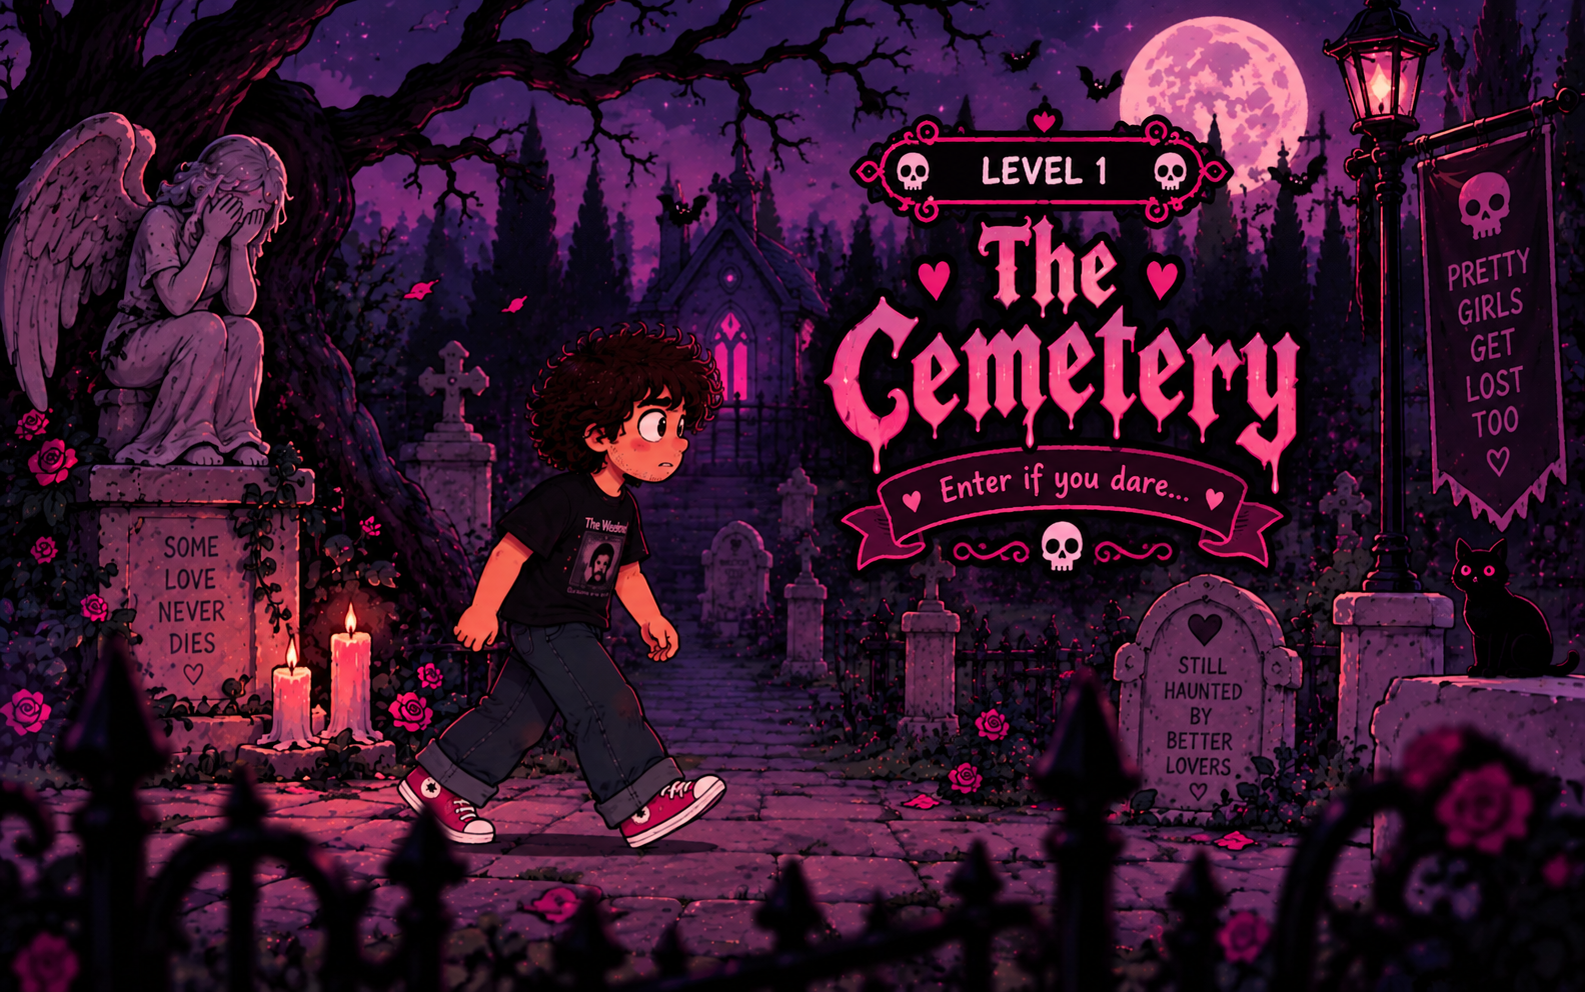
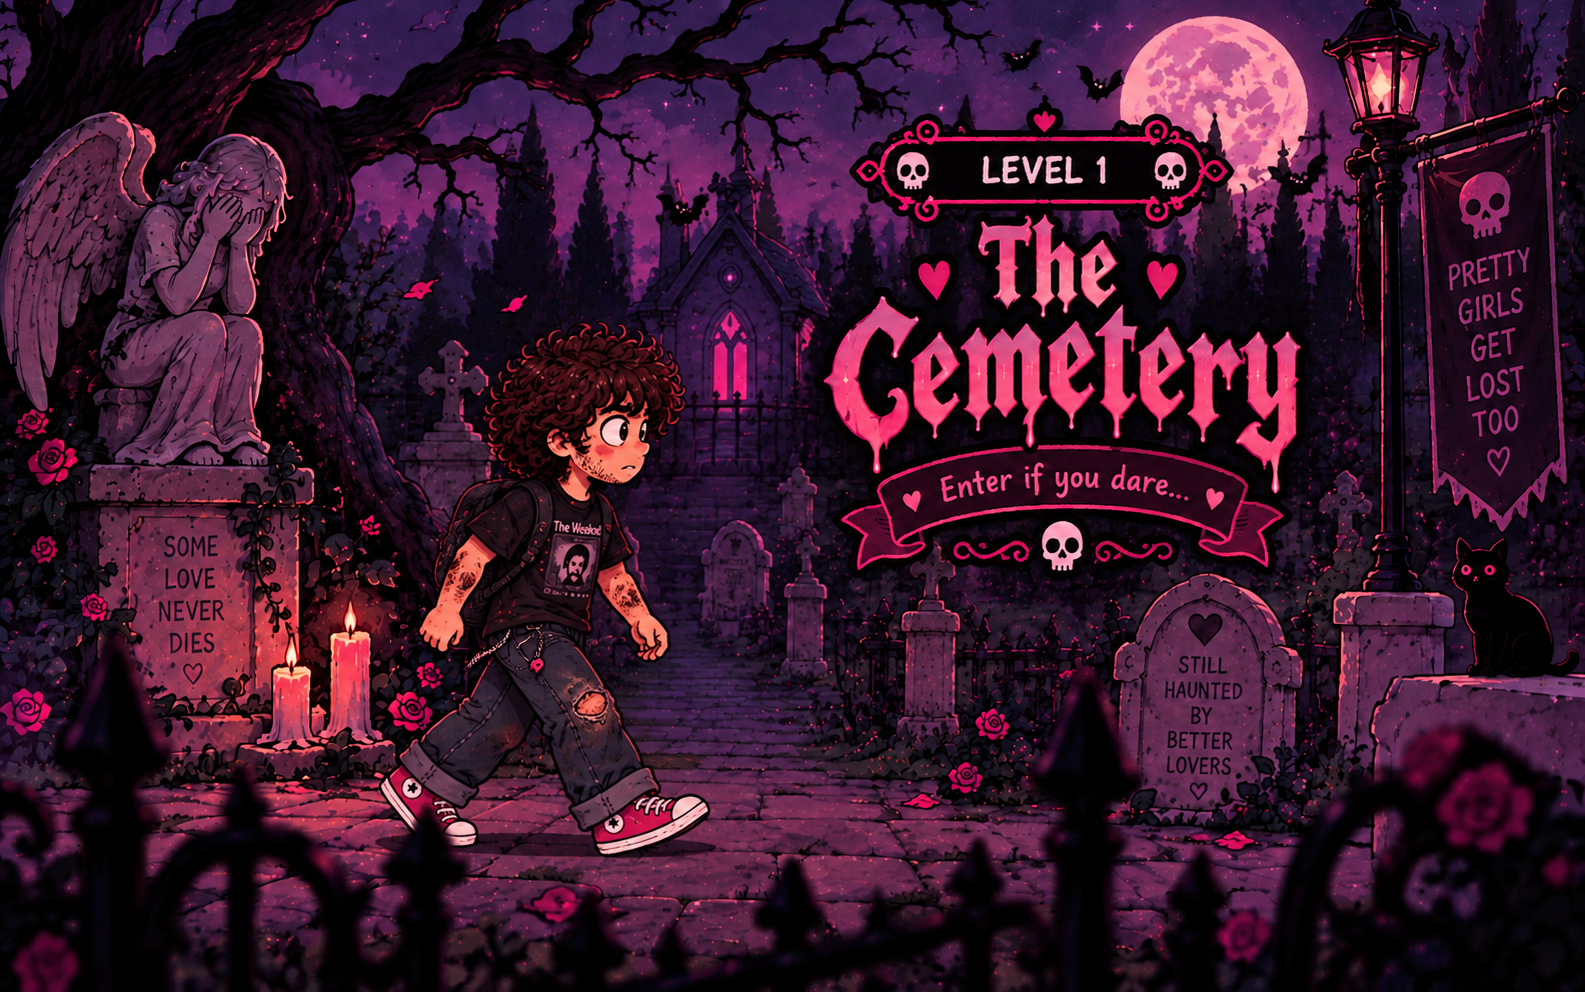
Add files via upload

diff --git a/js/levels/level1.js b/js/levels/level1.js
@@ -14,6 +14,24 @@ const mapBackground = new Image();
 mapBackground.src = 'assets/environment/level1-map-bg.png?v=600';
 const ollySprite = new Image();
 ollySprite.src = 'assets/characters/olly.png?v=300';
+
+// Combat animation frames extracted from the supplied Olly sprite sheet.
+const ollyCombatSprites = {
+    idle: [],
+    dodge: [],
+    jump: [],
+    heavy: [],
+    punch: []
+};
+for (const action of Object.keys(ollyCombatSprites)) {
+    const count = action === 'jump' ? 6 : 5;
+    for (let i = 1; i <= count; i++) {
+        const img = new Image();
+        img.src = `assets/characters/olly/${action}/${i}.png?v=655`;
+        ollyCombatSprites[action].push(img);
+    }
+}
+
 // v4.7 activity architecture: the icon belongs to the ROLE, not to the level.
 // These shared icon references can be reused by every level. Only the activity
 // behind the role changes from level to level.
@@ -266,6 +284,7 @@ export function createLevel1(ui) {
         relationshipDuration = 2600,
         relationshipAnimating = false,
         relationshipRAF = 0,
+        relationshipTimer = 0,
         comboCount = 0,
         attackCooldownUntil = 0,
         heavyAttackCooldownUntil = 0,
@@ -278,6 +297,9 @@ export function createLevel1(ui) {
         dodgeUntil = 0,
         combatLastFrame = 0,
         combatFacing = 'right',
+        combatAnim = 'idle',
+        combatAnimStart = 0,
+        combatAnimDuration = 0,
         player = {
             x: 270,
             y: COMBAT_H / 2,
@@ -604,6 +626,9 @@ export function createLevel1(ui) {
         jumpOffset = 0;
         dodgeUntil = 0;
         combatLastFrame = 0;
+        combatAnim = 'idle';
+        combatAnimStart = 0;
+        combatAnimDuration = 0;
         const enemyX = COMBAT_W - 320;
         player = {
             x: 270,
@@ -645,6 +670,7 @@ export function createLevel1(ui) {
             return;
         jumping = true;
         jumpT = 0;
+        setCombatAnimation('jump', 680);
         ui.combatStatus.innerHTML = '<strong>JUMP!</strong> Jumping gives you space to react.';
     }
     function drawCombatBackground(c) {
@@ -667,6 +693,27 @@ export function createLevel1(ui) {
                 c.fillRect(gx - 14, COMBAT_H - 220, 33, 5);
             }
         }
+    }
+    function setCombatAnimation(name, duration) {
+        combatAnim = name;
+        combatAnimStart = performance.now();
+        combatAnimDuration = duration;
+    }
+    function getCombatAnimationFrame(nowMs) {
+        const active = combatAnim !== 'idle' && nowMs < combatAnimStart + combatAnimDuration;
+        let name = active ? combatAnim : (jumping ? 'jump' : 'idle');
+        const frames = ollyCombatSprites[name] || ollyCombatSprites.idle;
+        if (!frames.length)
+            return null;
+        if (name === 'jump') {
+            const idx = Math.max(0, Math.min(frames.length - 1, Math.floor(jumpT * frames.length)));
+            return frames[idx];
+        }
+        if (!active)
+            return frames[0];
+        const pct = Math.max(0, Math.min(.999, (nowMs - combatAnimStart) / combatAnimDuration));
+        const idx = Math.min(frames.length - 1, Math.floor(pct * frames.length));
+        return frames[idx];
     }
     function drawCombat() {
         cctx.imageSmoothingEnabled = true;
@@ -759,15 +806,18 @@ export function createLevel1(ui) {
         c.beginPath();
         c.ellipse(0, 54 * s - offsetY * .08, 36 * s, 9 * s, 0, 0, Math.PI * 2);
         c.fill();
-        if (ollySprite.complete && ollySprite.naturalWidth) {
-            const bob = Math.sin(t * 8) * 1.3,
-                attackShift = attackAnimUntil > performance.now() ? (dir === 'right' ? 12 : -12) : 0,
-                w = 128 * s,
-                h = 192 * s;
+
+        const frame = getCombatAnimationFrame(performance.now());
+        if (frame && frame.complete && frame.naturalWidth) {
+            const h = 205 * s;
+            const w = h * (frame.naturalWidth / frame.naturalHeight);
+            const bob = (combatAnim === 'idle' && !jumping) ? Math.sin(t * 8) * 1.3 : 0;
+            const attackShift = (combatAnim === 'punch' || combatAnim === 'heavy')
+                ? (dir === 'right' ? 12 : -12) : 0;
             c.save();
             c.translate(attackShift, bob);
             c.scale(dir === 'right' ? -1 : 1, 1);
-            c.drawImage(ollySprite, -w / 2, -154 * s, w, h);
+            c.drawImage(frame, -w / 2, 38 * s - h, w, h);
             c.restore();
         }
         c.restore();
@@ -836,8 +886,10 @@ export function createLevel1(ui) {
         if (isJumpAttack) {
             heavyAttackCooldownUntil = nowMs + 15000;
             heavyAttackAnimUntil = nowMs + 360;
+            setCombatAnimation('heavy', 360);
         } else {
             attackAnimUntil = nowMs + 220;
+            setCombatAnimation('punch', 280);
         }
 
         if (distance <= 155) {
@@ -886,6 +938,7 @@ export function createLevel1(ui) {
         player.x = Math.max(80, Math.min(COMBAT_W - 80, player.x + direction * 180));
         player.invuln = nowMs + 500;
         dodgeUntil = nowMs + 500;
+        setCombatAnimation('dodge', 500);
         ui.combatStatus.textContent = '↪ DODGE! You are briefly invulnerable.';
     }
     function endCombat(won) {
@@ -952,14 +1005,17 @@ export function createLevel1(ui) {
         relationshipStep = 0;
         relationshipDuration = 2600;
         relationshipStart = performance.now();
+        clearInterval(relationshipTimer);
+        cancelAnimationFrame(relationshipRAF);
         ui.relationship.classList.remove('hidden');
         ui.wouldFeedback.textContent = 'The princess is rambling. Your job is to weaponise your timing. Round 1 of 5.';
         ui.wouldDisplay.textContent = '“Can I ask you a question...”';
         animateRelationship();
     }
     function animateRelationship() {
+        clearInterval(relationshipTimer);
         cancelAnimationFrame(relationshipRAF);
-        const tick = t => {
+        const updateRelationship = (t) => {
             if (mode !== 'relationship')
                 return;
             const elapsed = t - relationshipStart;
@@ -983,9 +1039,9 @@ export function createLevel1(ui) {
                 relationshipStart = performance.now();
                 ui.wouldFeedback.textContent = 'Too late. The princess has already escaped the sentence. She rambles again. Round ' + (relationshipStep + 1) + ' of 5.';
             }
-            relationshipRAF = requestAnimationFrame(tick);
         };
-        relationshipRAF = requestAnimationFrame(tick);
+        updateRelationship(performance.now());
+        relationshipTimer = setInterval(() => updateRelationship(performance.now()), 16);
     }
     function completeRelationship() {
         if (mode !== 'relationship')
@@ -999,6 +1055,7 @@ export function createLevel1(ui) {
             if (relationshipStep >= 5) {
                 relationshipDone = true;
                 mode = 'map';
+                clearInterval(relationshipTimer);
                 cancelAnimationFrame(relationshipRAF);
                 ui.relationship.classList.add('hidden');
                 ui.dialogue.textContent = unlockedBoss() ? '💕 WOULD YOU? complete. Miraculously, the rest of the requirements are also done. The gate can now open.' : '💕 WOULD YOU? complete. Five perfectly timed interruptions. One more requirement remains before the gate can open.';
@@ -1111,6 +1168,7 @@ export function createLevel1(ui) {
     function start() {
         stats();
         drawMini();
+        clearInterval(relationshipTimer);
         cancelAnimationFrame(relationshipRAF);
         clearInterval(enemyTimer);
         cancelAnimationFrame(raf);

diff --git a/js/game.js b/js/game.js
@@ -167,7 +167,7 @@ function showControls(){
 
 function showLevel1Intro(){
   showImageTransitionScreen(
-    'assets/story/level1-entrance.png',
+    'assets/story/level1-entrance.png?v=655',
     'Level 1: The Cemetery. Enter if you dare.',
     mountLevel1,
     'Level 1 entrance'
